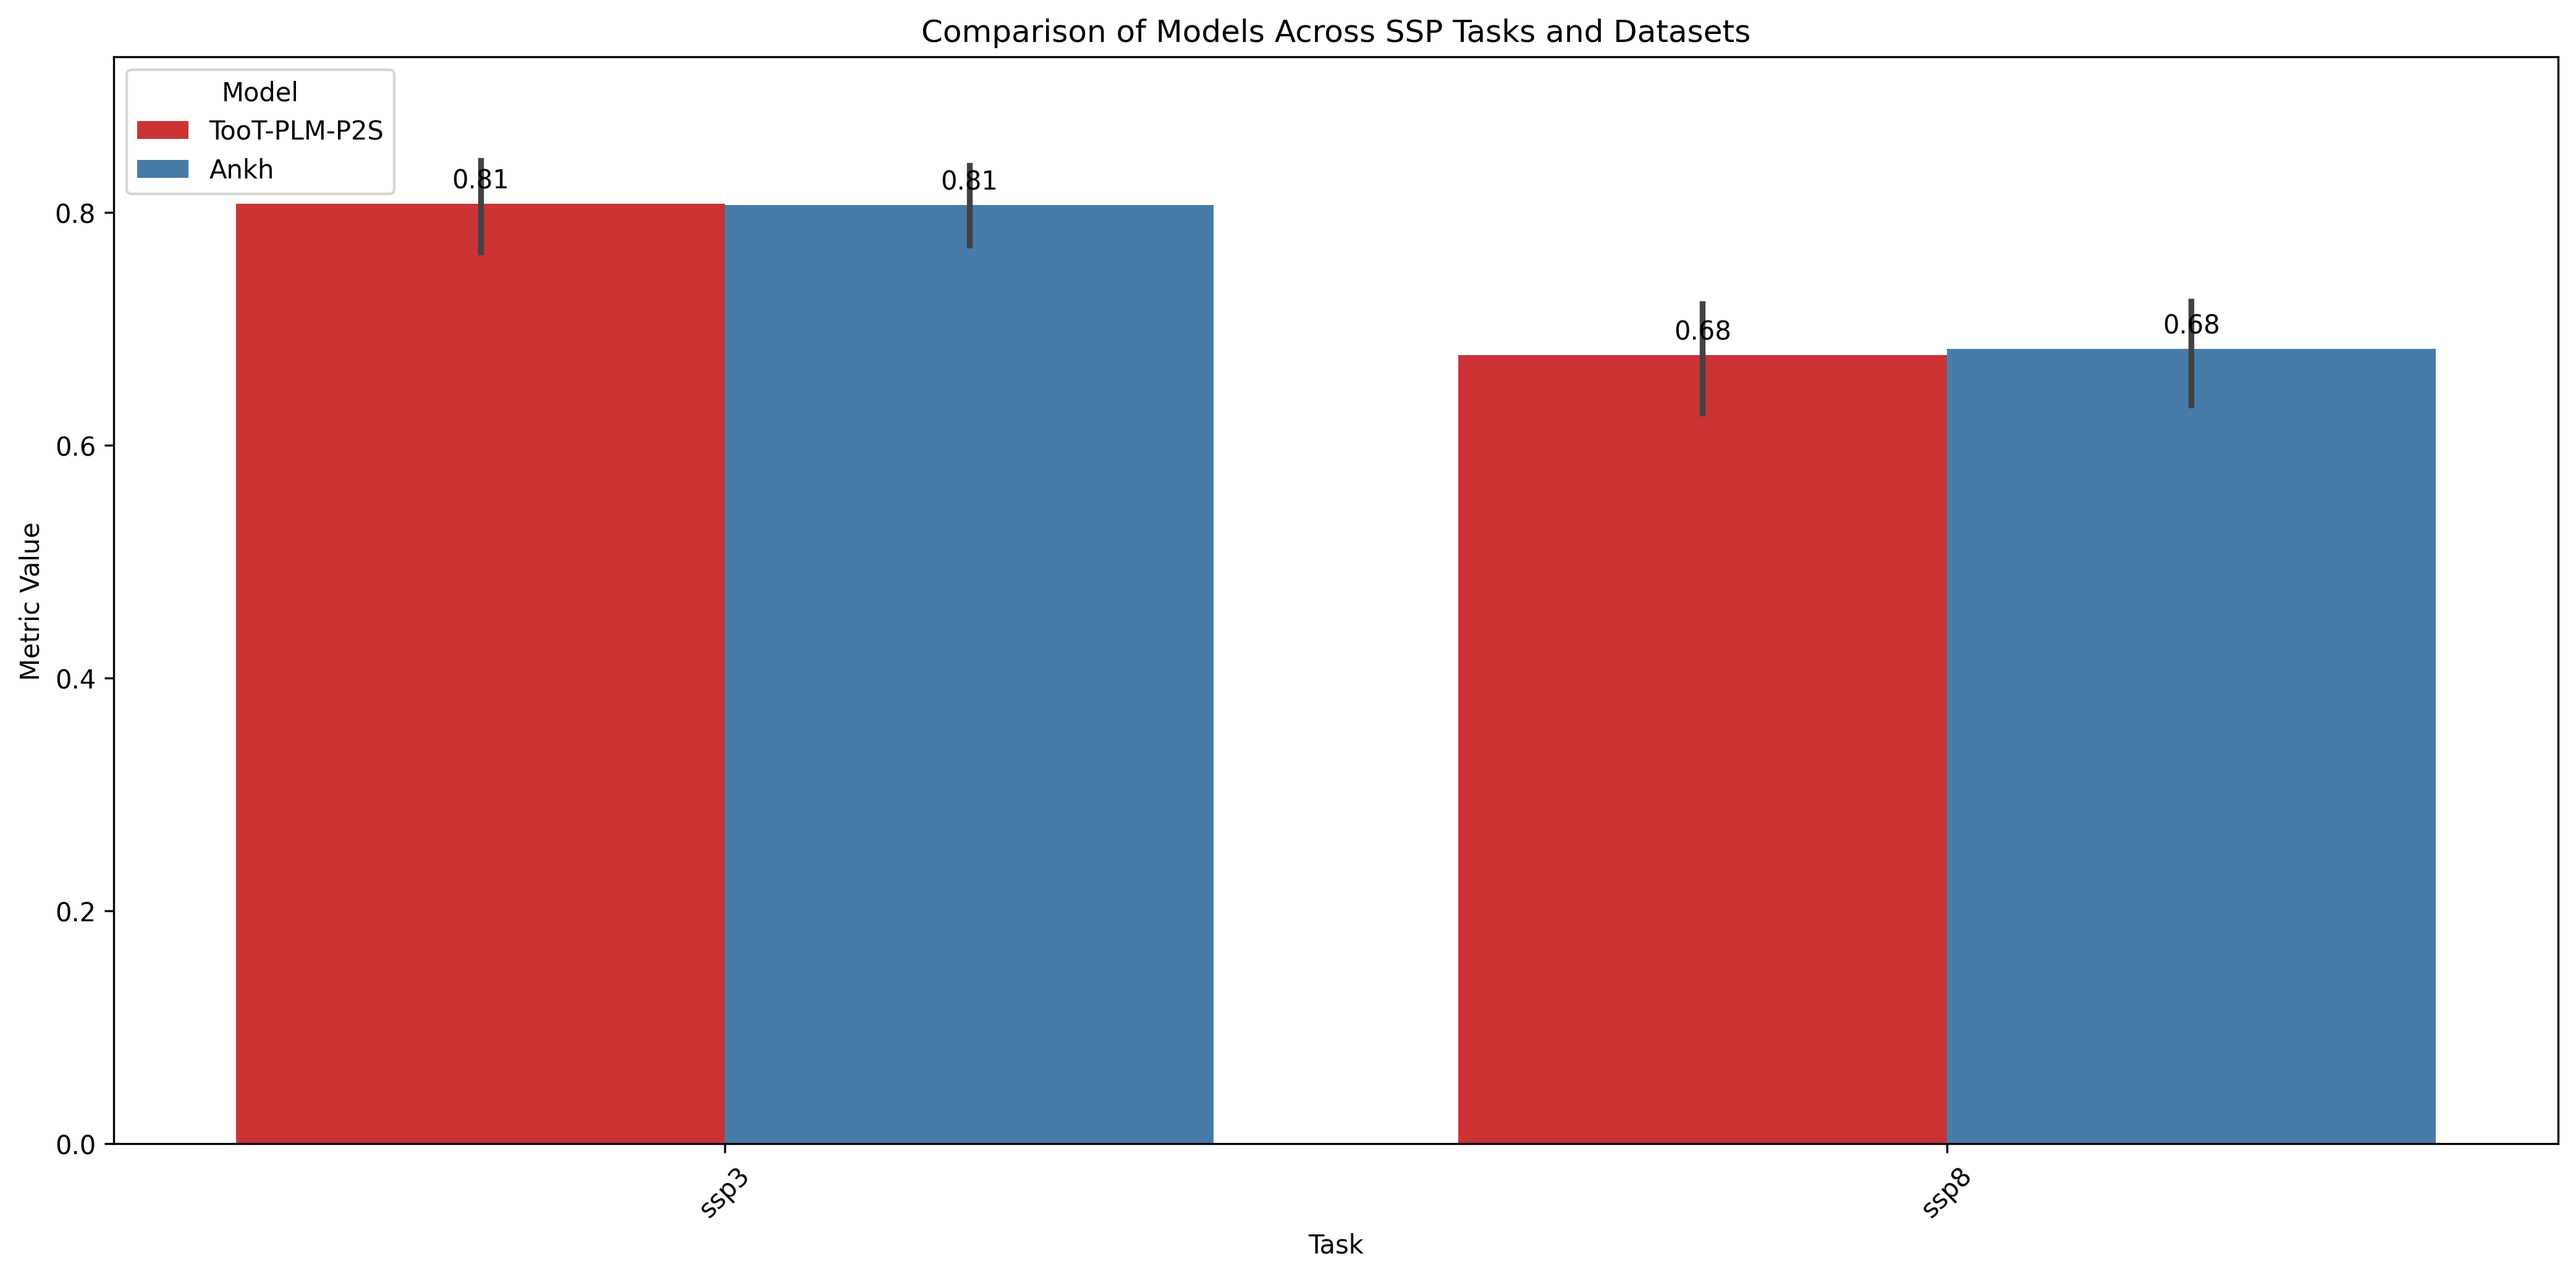
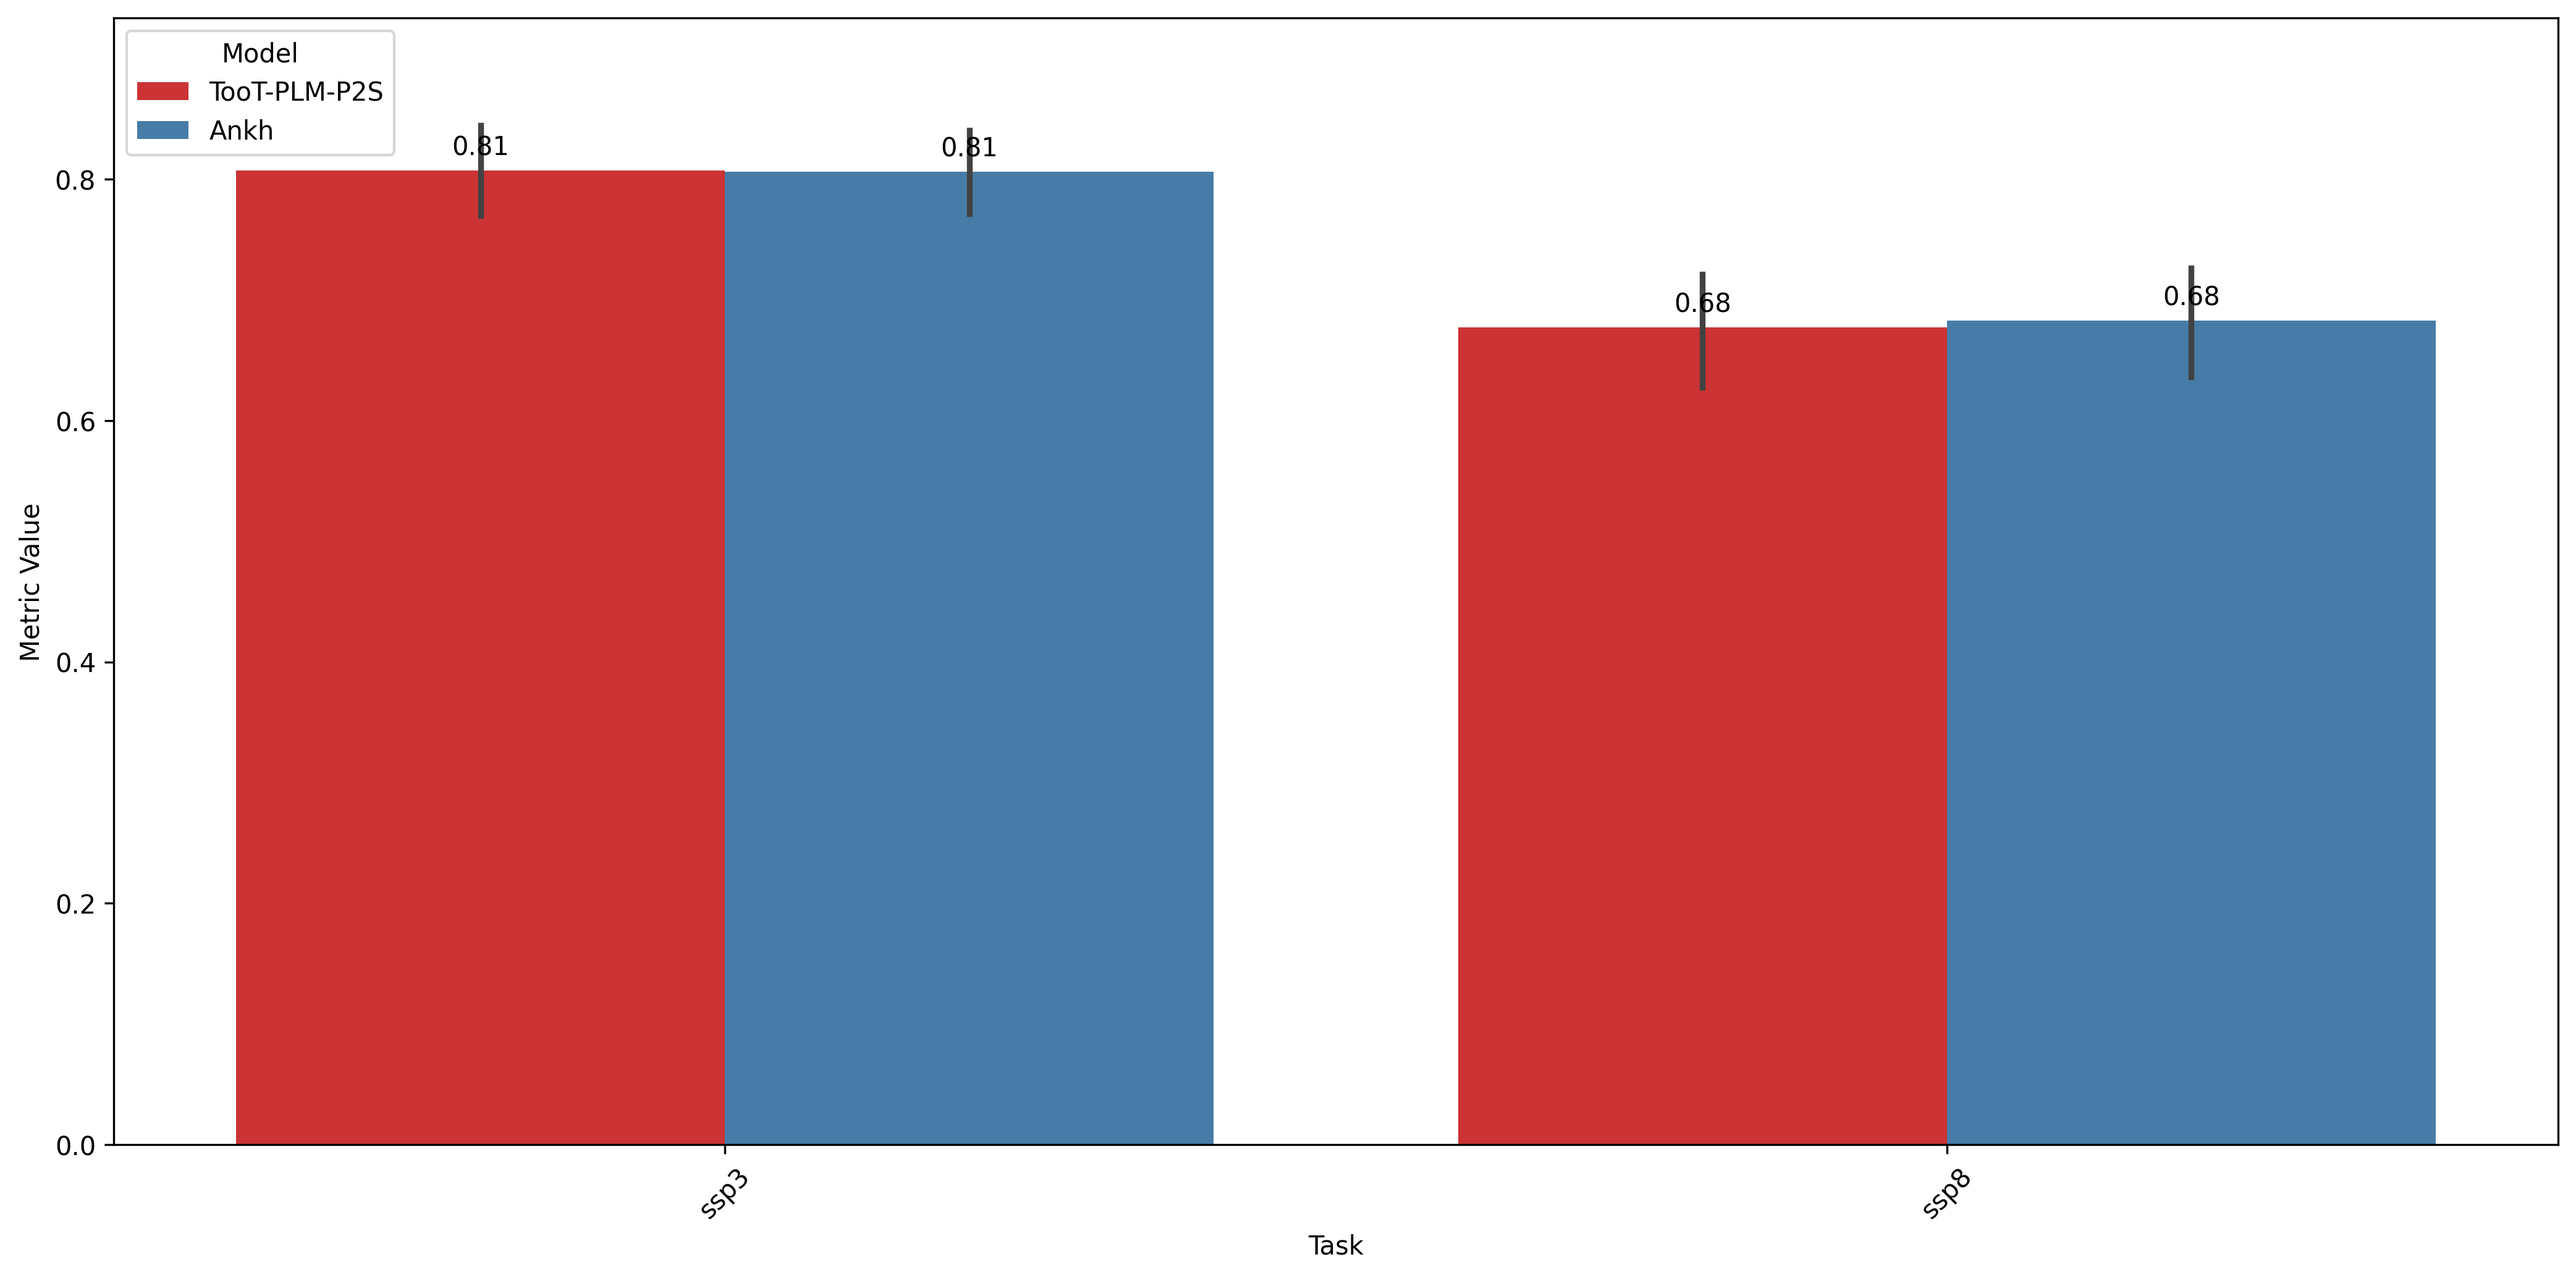
no title

diff --git a/show_results_test.py b/show_results_test.py
@@ -96,10 +96,6 @@ consolidated_results["Task"] = pd.Categorical(
 
 # more detail results:
 
-import pandas as pd
-import seaborn as sns
-import matplotlib.pyplot as plt
-
 # Assuming consolidated_results is prepared and loaded
 
 # Filter to include only SSP tasks and convert percentage strings to float values
@@ -125,7 +121,7 @@ for ssp_type in ['ssp3', 'ssp8']:
     )
 
     # Set plot title and labels
-    ax.set_title(f'Comparison of Models Across {ssp_type.upper()} Tasks and Datasets')
+    # ax.set_title(f'Comparison of Models Across {ssp_type.upper()} Tasks and Datasets')
     ax.set_ylabel("Accuracy (%)")
     ax.set_xlabel("Task and Dataset")
     ax.legend(title="Model", loc='upper left')
@@ -148,7 +144,7 @@ for ssp_type in ['ssp3', 'ssp8']:
     plt.xticks(rotation=45)
     plt.tight_layout()
     plt.savefig(f"./plots/{ssp_type}_tasks_test.png", dpi=300, bbox_inches="tight")  # Save plot
-    plt.show()  # Optionally display the plot
+    # plt.show()  # Optionally display the plot
 
 
 
@@ -190,7 +186,7 @@ ax = sns.barplot(
     order=ssp_data["Task"].cat.categories
 )
 
-ax.set_title('Comparison of Models Across SSP Tasks and Datasets')
+# ax.set_title('Comparison of Models Across SSP Tasks and Datasets')
 ax.set_ylabel("Metric Value")
 ax.set_xlabel("Task")
 ax.legend(title="Model", loc="upper left")
